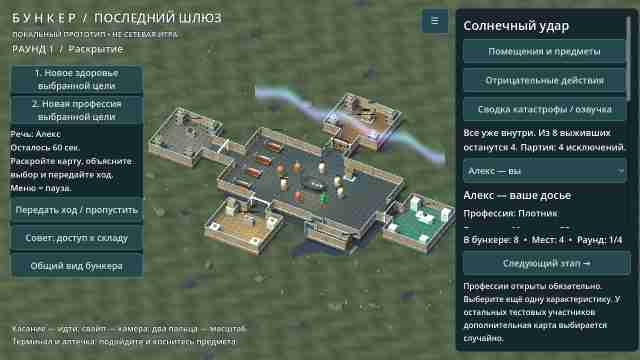
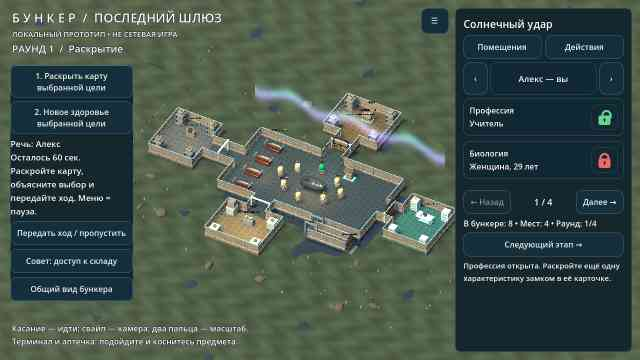
Document verified Android 15 release and replace all sixteen previews with current renders

diff --git a/docs/RUNNING.md b/docs/RUNNING.md
@@ -1,4 +1,4 @@
-# Запуск локального прототипа — 0.14
+# Запуск локального прототипа — 0.15
 
 ## Исходники
 
@@ -8,6 +8,8 @@
 4. Нажать «Начать партию»: настройки сохранятся, загрузится бункер и откроется аварийная сводка. Профессии сразу публичны; при раскрытии биологии внешность определяется её полом и возрастом.
 
 ## Управление
+
+[Версия 0.15](ITERATION_15.md): все меню и подразделы из карточек, без вертикальной прокрутки и выпадающих списков. «Назад / Далее» переключают страницы, не очищая поля формы. В досье нажмите маленький красный замок нужной характеристики: он станет зелёным, значение — публичным. Это можно сделать в свой ход, один раз за ход; оставшиеся секунды речи не сбрасываются. Громкость остаётся ползунком, масштаб в настройках меняется кнопками «Ближе / Дальше». Сетевого обмена между телефонами пока нет.
 
 [Версия 0.14](ITERATION_14.md): приветственный экран теперь из карточек без скролла. «Персонаж» открывает имя, модель и одежду; «Начать игру» — подготовку с бегущим персонажем. После загрузки можно нажать «Войти сейчас» или дождаться автоматического перехода. «Вернуться к костру» отменяет вход без создания бункера. При уменьшенных эффектах перемещение бегуна и анимация появления карточек отключены. Подписанная 0.13 может получить 0.14 через проверку обновлений без удаления приложения.
 
@@ -24,18 +26,18 @@
 **В 0.8 кухня, склад, медотсек и дополнительные секции — отдельные наружные пристройки.** В меню помещений кнопки «Осмотреть» приближают их; слева «Общий вид бункера» возвращает обзор. [Архитектура и реальные рендеры](ITERATION_08.md).
 
 - Касание свободного пола — маршрут с обходом мебели. Кнопка меню — в углу; меню приостанавливает локальное движение и таймер.
-- Справа — выбор досье, дополнительной карты, раскрытие, переход между этапами. Слева — две одноразовые способности, текущая речь и передача хода, совет склада.
+- Справа — выбор досье, страницы характеристик с замками, переход между этапами. Слева — две одноразовые способности, текущая речь и передача хода, совет склада.
 - На выступление каждого — 60 секунд. После полного круга — обсуждение, затем тестовое голосование; при ничьей есть переголосование.
 - «Помещения и предметы»: выбрать исполнителя, затем действие. Работать может только подходящая профессия, список виден в меню. Радио, еда и койки универсальны. Назначенный участник идёт к предмету.
 - Кухня расходует запасы и готовит порции. Совет отдельно решает открытие склада строгим большинством: склад разрешено не открывать всю партию.
 - У терминала уже есть один аварийный ремонтный набор. Техническая профессия восстанавливает систему, со второго раунда открывается постоянный медблок.
-- При изгнании ваш персонаж проходит шлюз. Выбирайте d6/d20 и выигрышную половину чисел **до** единственного броска. Панель прокручивается. Затем можно продолжить наблюдателем.
+- При изгнании ваш персонаж проходит шлюз. Выбирайте d6/d20 и выигрышную половину чисел **до** единственного броска. Карточки переключаются страницами, выбранные числа и кнопки броска доступны без прокрутки. Затем можно продолжить наблюдателем.
 
 [Все изменения и конкретные способы проверки 0.7](ITERATION_07.md). [APK и установка](BUILD_STATUS.md).
 
 ## Автоматические проверки
 
-В GitHub Actions закреплён Godot 4.5.1. Оба workflow запускают двенадцать тестовых скриптов; дополнительно Godot workflow делает smoke test и реальные графические рендеры, в том числе широкого окна 2460×1080. Локально, при установленном Godot:
+В GitHub Actions закреплён Godot 4.5.1. Оба workflow запускают 15 тестовых скриптов; дополнительно Godot workflow делает smoke test и реальные графические рендеры, в том числе широкого окна 2460×1080. Локально, при установленном Godot:
 
 ```bash
 bash tools/check_godot.sh --headless --editor --path . --quit
@@ -50,4 +52,4 @@ done
 
 Это **локальный прототип**, не сетевая партия. Остальные участники — явные тестовые фикстуры; вы задаёте их голоса и поручения. Нет чата, голосовой связи, интеллектуальных ботов, авторитетного сервера, сохранения партии и защиты скрытых карт от локального клиента. Шкала бодрости детально реализована у вашего персонажа; ресурсы здоровья общие. Оружие пока только инвентарь. Системной русской озвучке нужен установленный Android TTS-голос.
 
-APK складывается в игнорируемую папку `builds/`, распространяется как GitHub Actions artifact. Release-ключи и пароли в Git не хранятся. Debug-подпись runner может отличаться между сборками: при конфликте подписи потребуется удалить прежнее приложение с потерей локального профиля.
+APK складывается в игнорируемую папку `builds/`; текущая подписанная версия доступна напрямую из публичного Release, диагностический export — как GitHub Actions artifact. Release-ключи и пароли в Git не хранятся. Debug-подпись runner может отличаться между сборками: при конфликте подписи потребуется удалить прежнее приложение с потерей локального профиля.

diff --git a/README.md b/README.md
@@ -11,24 +11,24 @@
 
 Направление прототипа: Godot 4, стилизованное 3D с камерой сверху под углом и карточным 2D-интерфейсом; целевая платформа — Android. Подключены 3D-модели Quaternius (CC0); источники и лицензии — в [THIRD_PARTY.md](THIRD_PARTY.md).
 
-## Текущий APK — 0.14: карточки и бегущая заставка
+## Текущий APK — 0.15: карточки везде и замки характеристик
 
-[**Скачать Bunker-Posledniy-Shlyuz-14.apk**](https://github.com/AlfaGideon/Bunker/releases/download/android-14/Bunker-Posledniy-Shlyuz-14.apk) · [Публичный Release](https://github.com/AlfaGideon/Bunker/releases/tag/android-14).
+[**Скачать APK**](https://github.com/AlfaGideon/Bunker/releases/download/android-15/Bunker-Posledniy-Shlyuz-15.apk) · [Release](https://github.com/AlfaGideon/Bunker/releases/tag/android-15) · [Подпись и совместимость](https://github.com/AlfaGideon/Bunker/actions/runs/40704103210) · [Godot CI](https://github.com/AlfaGideon/Bunker/actions/runs/40704103644)
 
-Приветственное меню переделано: **никакого столбика со скроллом**. Большая карточка «Начать игру» и шесть карточек в сетке, анимированное появление, состояния касания/фокуса. Персонаж и профиль редактируются на отдельной странице с живым предпросмотром у костра.
+**Все меню — карточные и без вертикальной прокрутки:** подразделы приветствия, меню партии, профиль, настройки, помещения, совет, отрицательные действия, досье и выживание. Страницы переключаются кнопками «Назад / Далее», состояние полей и выбранных чисел сохраняется. Вместо выпадающих списков — сенсорные кнопки выбора; ползунок оставлен только для громкости. Масштаб камеры — «Ближе / Дальше», прямые жесты сохранены.
 
-После старта — отдельная **заставка подготовки**, где выбранный персонаж бежит слева направо с настоящей анимацией Running_A. Модели загружаются в фоне, прогресс соответствует ресурсам. Готовую заставку можно пропустить, подготовку — отменить без создания мира. Сетевого поиска пока нет: интерфейс не выдаёт локальную подготовку за поиск игроков.
+У каждой характеристики **маленький красный закрытый замок**; после раскрытия — **зелёный открытый**. Значение становится публичным в локальном досье. Раскрытие не сбрасывает и не продлевает речь: остаётся то же время. Сохранены свой ход, одна дополнительная карта за ход и публичная с начала профессия.
 
-Имя приложения в Android — **«Бункер — Последний шлюз»**, имя APK тоже изменено. Сертификат подписи **сравнен и совпал с 0.13**, package ID сохранён. Подписанную 0.13 не нужно удалять: обновление доступно через «Проверить обновления» или по прямой ссылке. В Release оставлена идентичная копия `bunker-14.apk` для совместимости с проверкой обновлений старого клиента.
+Приложение по-прежнему называется **«Бункер — Последний шлюз»**. Лагерь, семь главных карточек и настоящая Running_A на заставке подготовки сохранены. Сертификат подписи сравнен и совпал с 0.14, package ID прежний. В Release есть идентичный `bunker-15.apk` для совместимости с обновлением клиента 0.13.
 
-[**Подробности 0.14**](docs/ITERATION_14.md) · [Обновления и подпись](docs/ANDROID_UPDATES.md) · [Release workflow](https://github.com/AlfaGideon/Bunker/actions/runs/40698411703) · [Godot CI](https://github.com/AlfaGideon/Bunker/actions/runs/40698411601).
+[**Подробности 0.15**](docs/ITERATION_15.md) · [Обновления и подпись](docs/ANDROID_UPDATES.md).
 
-Исходники: `2f1ce72`; version code **14**, версия **0.14.0**, APK **59 859 222 байта**. Все 14 GDScript-тестов, проверка согласованности версии, четыре job Godot, Android export и подписанный Release успешны. Тесты проверяют карточки без скролла, бег, отмену подготовки, повторный старт и вход в настоящую партию. Рендеры меню и заставки проверены визуально; единый набор из 16 скриншотов обновлён без накопления версий. Физическая установка 13 → 14 на BL9000 ещё требует проверки.
+Исходники `d5e8448`; version code **15**, версия **0.15.0**, APK **59 876 268 байт**. Все 15 GDScript-тестов, Python-проверка версии, четыре job Godot, Android export и подписанный Release успешны. Проверены реальные рендеры карточек, замков и d20; единый набор из 16 JPEG обновлён без накопления версий. Физическая установка 14 → 15, касания и FPS на BL9000 ещё требуют проверки.
 
-![Карточки приветственного меню — настоящий рендер Godot](docs/previews/menu.jpg)
+![Маленькие замки и досье без прокрутки — настоящий рендер Godot](docs/previews/bunker.jpg)
 
 **В самой партии сохранены:** отдельные наружные пристройки и коридоры, профессиональный доступ, совет склада, кухня/еда, две способности, выступления по 60 секунд, выбор d6/d20. Камера управляется свайпом и двумя пальцами, на ПК — мышью и колесом.
 
 **Локальный прототип, не онлайн-игра.** Остальные участники — тестовые фикстуры. Нет чата/микрофона и сохранения партии между запусками. Проверка на физическом BL9000 ещё нужна. При конфликте debug-подписи потребуется удалить прежнюю установку с потерей профиля. [Источники моделей и лицензии](THIRD_PARTY.md).
 
-Предыдущие итерации: [0.13](docs/ITERATION_13.md), [0.12](docs/ITERATION_12.md), [0.11](docs/ITERATION_11.md), [0.10](docs/ITERATION_10.md), [0.9](docs/ITERATION_09.md), [0.8](docs/ITERATION_08.md), [0.7](docs/ITERATION_07.md), [0.6](docs/ITERATION_06.md).
+Предыдущие итерации: [0.14](docs/ITERATION_14.md), [0.13](docs/ITERATION_13.md), [0.12](docs/ITERATION_12.md), [0.11](docs/ITERATION_11.md), [0.10](docs/ITERATION_10.md), [0.9](docs/ITERATION_09.md), [0.8](docs/ITERATION_08.md), [0.7](docs/ITERATION_07.md), [0.6](docs/ITERATION_06.md).

diff --git a/docs/BUILD_STATUS.md b/docs/BUILD_STATUS.md
@@ -1,6 +1,8 @@
 # Проверки и APK
 
-**Текущая версия 0.14:** [APK](https://github.com/AlfaGideon/Bunker/releases/download/android-14/Bunker-Posledniy-Shlyuz-14.apk), [Release](https://github.com/AlfaGideon/Bunker/releases/tag/android-14), [подписанная сборка](https://github.com/AlfaGideon/Bunker/actions/runs/40698411703), [Godot CI](https://github.com/AlfaGideon/Bunker/actions/runs/40698411601), [изменения](ITERATION_14.md). Исходники `2f1ce72`, version code 14, 59 859 222 байта. Все 14 GDScript-тестов, Python-проверка версии, четыре job Godot, debug export и signed release успешны. Подпись совпала с опубликованной 0.13. Проверены настоящее меню без ScrollContainer, Running_A, движение, отмена без генерации мира, повторный старт, перенос профиля и переход в партию. Все 16 текущих JPEG полностью декодированы; диагностические старые JPEG удалены. На физическом BL9000 ещё нужны установка и проверка загрузки/касания/FPS.
+**Текущая версия 0.15:** [APK](https://github.com/AlfaGideon/Bunker/releases/download/android-15/Bunker-Posledniy-Shlyuz-15.apk), [Release](https://github.com/AlfaGideon/Bunker/releases/tag/android-15), [подписанная сборка](https://github.com/AlfaGideon/Bunker/actions/runs/40704103210), [Godot CI](https://github.com/AlfaGideon/Bunker/actions/runs/40704103644), [изменения](ITERATION_15.md). Исходники `d5e8448`, version code 15, 59 876 268 байт. Все 15 GDScript-тестов, Python-проверка версии, четыре job Godot, Android export и signed release успешны. Подпись совпала с опубликованной 0.14. Проверены меню без ScrollContainer/OptionButton, доступность всех страниц, размещение HUD, настоящая кнопка-замок 52×52, публичность, зелёное состояние, неизменность таймера и запрет повторного/чужого хода, d20 независимо от видимости страницы. Все 16 текущих JPEG полностью декодированы; старые диагностические JPEG удалены. Установка и сенсорное тестирование на физическом BL9000 ещё нужны.
+
+**Историческая версия 0.14:** [APK](https://github.com/AlfaGideon/Bunker/releases/download/android-14/Bunker-Posledniy-Shlyuz-14.apk), [Release](https://github.com/AlfaGideon/Bunker/releases/tag/android-14), [подписанная сборка](https://github.com/AlfaGideon/Bunker/actions/runs/40698411703), [Godot CI](https://github.com/AlfaGideon/Bunker/actions/runs/40698411601), [изменения](ITERATION_14.md). Исходники `2f1ce72`, version code 14, 59 859 222 байта. Все 14 GDScript-тестов, Python-проверка версии, четыре job Godot, debug export и signed release успешны. Подпись совпала с опубликованной 0.13. Проверены настоящее меню без ScrollContainer, Running_A, движение, отмена без генерации мира, повторный старт, перенос профиля и переход в партию. Все 16 текущих JPEG полностью декодированы; диагностические старые JPEG удалены. На физическом BL9000 ещё нужны установка и проверка загрузки/касания/FPS.
 
 **Историческая версия 0.13:** [release APK](https://github.com/AlfaGideon/Bunker/releases/download/android-13/bunker-13.apk), [Release](https://github.com/AlfaGideon/Bunker/releases/tag/android-13), [подпись и публикация](https://github.com/AlfaGideon/Bunker/actions/runs/40690788337), [Godot CI](https://github.com/AlfaGideon/Bunker/actions/runs/40690788670), [подробности](ITERATION_13.md). Исходники `0e01f6a`, version code 13, 59 846 492 байта. Все 14 GDScript-тестов, Python-проверка версий, четыре job Godot и release job успешны. apksigner проверил APK; aapt подтвердил package ID/version code. Проверен публичный API latest. Все 16 текущих JPEG полностью декодированы. Постоянный ключ успешно прочитан из GitHub Secrets, его значений в tracked source нет. Физическое обновление между двумя подписанными версиями ещё не проверено.
 

diff --git a/docs/ITERATION_15.md b/docs/ITERATION_15.md
@@ -1,5 +1,9 @@
 # 0.15 — карточки во всех меню и замки характеристик
 
+[**Скачать APK**](https://github.com/AlfaGideon/Bunker/releases/download/android-15/Bunker-Posledniy-Shlyuz-15.apk) · [Release](https://github.com/AlfaGideon/Bunker/releases/tag/android-15) · [Подпись и совместимость](https://github.com/AlfaGideon/Bunker/actions/runs/40704103210) · [Godot CI](https://github.com/AlfaGideon/Bunker/actions/runs/40704103644)
+
[1 lines of base64/hex data omitted]
+
 ## Меню без вертикальной прокрутки
 
 Общий `card_deck.gd` заменяет ScrollContainer в меню партии, досье и экране выживания. Подразделы приветственного экрана используют тот же компонент: профиль, параметры партии, настройки и правила. Карточки распределяются по страницам; снизу всегда доступны «Назад / Далее», номер страницы и, в меню, выход на главный экран. У меню партии есть отдельная постоянная кнопка закрытия.
@@ -32,6 +36,12 @@
 
 Package ID, постоянный ключ подписи и формат профиля не меняются. Для обновления старой версии сохраняется legacy-копия `bunker-15.apk` вместе с `Bunker-Posledniy-Shlyuz-15.apk`. Реальная установка поверх предыдущей версии и сенсорное тестирование на Blackview BL9000 требуют проверки на устройстве.
 
-## Статус
+## Результат
 
-Предпубликационный commit `dd667c7`: все 15 GDScript-тестов, четыре job Godot CI и Android export успешны. Настоящие рендеры досье с двумя замками, профиля, настроек, совета и d20 просмотрены. Запрошена подписанная публикация 0.15; ссылка и результаты сравнения сертификатов будут добавлены после фактического завершения Release.
+Публичный Release android-15 опубликован из `d5e8448`. Все 15 GDScript-тестов, Python-проверка версии, четыре job Godot, Android export и подписанный Release успешны. Release job сравнил сертификат с опубликованной 0.14 и подтвердил совпадение. API latest возвращает 15 с обоими APK. Настоящие рендеры досье с красным и зелёным замками, профиля, настроек, совета и d20 просмотрены. Все 16 текущих JPEG обновлены под прежними именами и полностью декодированы; диагностические JPEG удалены.
+
+![Досье: зелёная профессия, красная биология](previews/bunker.jpg)
+
+![Карточки совета](previews/council.jpg)
+
+![Выбор d20 без прокрутки](previews/survival.jpg)
